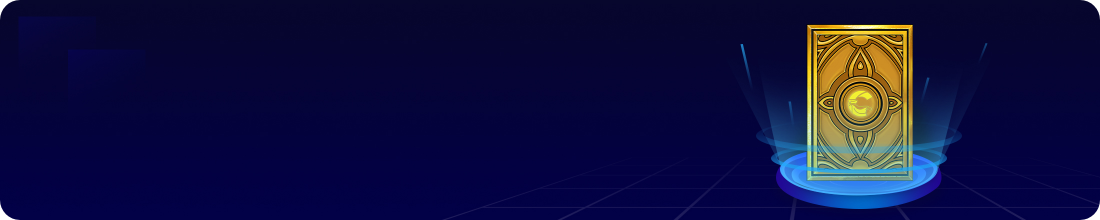
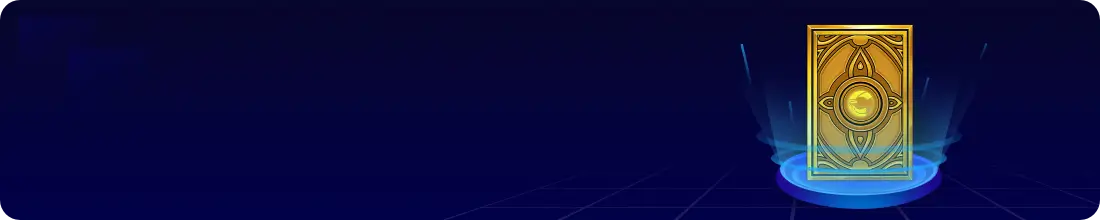
Bug fix (#13)
* tiny images

* import credential before next

* tutorial bg

* Submit and Next exist

* dashboard header links

react-hooks: useQueryParam

Changed region(s): [[0.7109, 0.0818, 0.8655, 0.8455], [0.7727, 0.9273, 0.8036, 0.9545]]

diff --git a/packages/app/src/DashboardFrame/Header.tsx b/packages/app/src/DashboardFrame/Header.tsx
@@ -1,17 +1,20 @@
-import { Box, Stack, styled } from '@mui/material';
-import React from 'react';
-import { useNavigate } from 'react-router-dom';
+import { Box, Link, Stack, styled } from '@mui/material';
+import React, { useEffect } from 'react';
+import { Link as LinkRoute, useNavigate } from 'react-router-dom';
 
 import { useWallet } from '@zcloak/react-wallet';
 
 import { ButtonEnable } from '@zkid/react-components';
+import { useQueryParam } from '@zkid/react-hooks';
 
 import AccountInfo from '../AccountInfo';
 import MoreLinks from '../MoreLinks';
 import NetworkCell from '../NetworkCell';
 
 const Wrapper = styled(Box)`
-  position: relative;
+  z-index: 1;
+  position: fixed;
+  top: 0;
   display: flex;
   align-items: center;
   justify-content: space-between;
@@ -19,6 +22,7 @@ const Wrapper = styled(Box)`
   height: 80px;
   padding: 0 30px;
 
+  background-color: #f4f5fc;
   color: #fff;
 
   .ZkidHeader-right {
@@ -33,16 +37,64 @@ const Logo = styled('div')`
   cursor: pointer;
 `;
 
+const ActiveLink: React.FC<{ to: string; active: string }> = ({ active, children, to }) => {
+  const [param] = useQueryParam<string>('anchor');
+
+  return (
+    <Link
+      component={LinkRoute}
+      sx={(theme) => ({
+        textDecoration: active === param ? 'underline' : undefined,
+        color: active === param ? theme.palette.grey[600] : '#000'
+      })}
+      to={to}
+    >
+      {children}
+    </Link>
+  );
+};
+
 const Header: React.FC = () => {
   const { account } = useWallet();
   const navigate = useNavigate();
 
+  const [param] = useQueryParam<string>('anchor');
+
+  useEffect(() => {
+    if (param) {
+      document.getElementById(param)?.scrollIntoView();
+    }
+  }, [param]);
+
   return (
     <Wrapper>
-      <Stack>
+      <Stack alignItems="center" direction="row" spacing={10}>
         <Logo onClick={() => navigate('/')}>
           <img src={require('@zkid/app-config/assets/logo-black.svg')} />
         </Logo>
+        <Stack
+          alignItems="center"
+          direction="row"
+          spacing={4}
+          sx={{
+            '.MuiLink-root': {
+              textUnderlineOffset: 6
+            }
+          }}
+        >
+          <ActiveLink active="dashboard" to="/dashboard?anchor=dashboard">
+            Dashboard
+          </ActiveLink>
+          <ActiveLink active="dashboard-poap" to="/dashboard?anchor=dashboard-poap">
+            POAP
+          </ActiveLink>
+          <ActiveLink active="dashboard-proof" to="/dashboard?anchor=dashboard-proof">
+            Proof
+          </ActiveLink>
+          <ActiveLink active="dashboard-activities" to="/dashboard?anchor=dashboard-activities">
+            Activities
+          </ActiveLink>
+        </Stack>
       </Stack>
       <Stack
         className="ZkidHeader-right"

diff --git a/packages/page-tutorial/src/Step3.tsx b/packages/page-tutorial/src/Step3.tsx
@@ -1,6 +1,6 @@
 import styled from '@emotion/styled';
 import { Button, Container } from '@mui/material';
-import React, { useCallback, useContext } from 'react';
+import React, { useCallback, useContext, useEffect, useState } from 'react';
 
 import { ZkidExtensionContext } from '@zkid/react-components/ZkidExtension';
 
@@ -32,10 +32,25 @@ const Wrapper = styled(Container)`
 
 const Step3: React.FC = () => {
   const { nextStep } = useContext(JudgeStepContext);
-  const { isImport, zkidExtension } = useContext(ZkidExtensionContext);
+  const { zkidExtension } = useContext(ZkidExtensionContext);
+  const [isImport, setIsImport] = useState(false);
+  const [isClick, setIsClick] = useState(false);
 
   const importCredential = useCallback(() => {
     zkidExtension.openzkIDPopup('OPEN_IMPORT_CREDENTIAL', undefined);
+    setIsClick(true);
+  }, [zkidExtension]);
+
+  useEffect(() => {
+    const handleImportEvent = () => {
+      setIsImport(true);
+    };
+
+    zkidExtension.on('SEND_IMPORT_CREDENTIAL_SUCCESS', handleImportEvent);
+
+    return () => {
+      zkidExtension.off('SEND_IMPORT_CREDENTIAL_SUCCESS', handleImportEvent);
+    };
   }, [zkidExtension]);
 
   return (
@@ -47,7 +62,7 @@ const Step3: React.FC = () => {
       </p>
       <img src="/images/pic_import.webp" />
 
-      {isImport ? (
+      {isClick && isImport ? (
         <Button onClick={nextStep} variant="rounded">
           Next
         </Button>

diff --git a/packages/page-tutorial/src/Step4.tsx b/packages/page-tutorial/src/Step4.tsx
@@ -72,25 +72,26 @@ const Step4: React.FC = () => {
       ) : (
         <>
           {finished && flag ? (
-            <ProofTrue />
+            <>
+              <ProofTrue />
+              <Button onClick={nextStep} variant="rounded">
+                Next
+              </Button>
+            </>
           ) : exists ? (
-            <Verifing setFinished={setFinished} />
+            <>
+              <Verifing setFinished={setFinished} />
+              <Button
+                onClick={() => {
+                  setFlag(true);
+                }}
+                variant="rounded"
+              >
+                Next
+              </Button>
+            </>
           ) : (
             <ZkGenerator />
-          )}
-          {finished && (
-            <Button
-              onClick={() => {
-                if (!flag) {
-                  setFlag(true);
-                } else {
-                  nextStep();
-                }
-              }}
-              variant="rounded"
-            >
-              Next
-            </Button>
           )}
         </>
       )}

diff --git a/packages/app/src/TutorialFrame/index.tsx b/packages/app/src/TutorialFrame/index.tsx
@@ -1,22 +1,29 @@
 import styled from '@emotion/styled';
 import { Box } from '@mui/material';
 import React from 'react';
-import { Outlet } from 'react-router-dom';
+import { Outlet, useMatch, useResolvedPath } from 'react-router-dom';
 
 import Header from './Header';
 
-const Wrapper = styled(Box)`
-  width: 100vw;
-  min-height: 100vh;
-  padding-bottom: 44px;
-  background: url('/images/tutorial-bg.webp') no-repeat;
-  background-size: cover;
-  background-position: center;
-`;
+const Wrapper = styled(Box)<{ inTutorial: boolean }>(
+  ({ inTutorial }) => `
+width: 100vw;
+min-height: 100vh;
+padding-bottom: 44px;
+background: url('${
+    inTutorial ? '/images/tutorial-bg2.webp' : '/images/tutorial-bg.webp'
+  }') no-repeat;
+background-size: cover;
+background-position: center;
+`
+);
 
 const TurorialFrame: React.FC = () => {
+  const tutorialResolved = useResolvedPath('/tutorial');
+  const match = useMatch({ path: tutorialResolved.pathname, end: true });
+
   return (
-    <Wrapper>
+    <Wrapper inTutorial={!!match}>
       <Header />
       <Outlet />
     </Wrapper>

diff --git a/packages/react-hooks/src/useQueryParams.ts b/packages/react-hooks/src/useQueryParams.ts
@@ -1,0 +1,27 @@
+import { useCallback, useMemo } from 'react';
+import { NavigateOptions, useSearchParams } from 'react-router-dom';
+import * as searchQuery from 'search-query-parser';
+
+export function useQueryParam<T>(
+  key: string
+): [T | null, (newQuery: T, options?: NavigateOptions) => void] {
+  const [searchParams, setSearchParams] = useSearchParams();
+  const paramValue = searchParams.get(key);
+
+  const value = useMemo(
+    () => (paramValue ? (searchQuery.parse(paramValue) as unknown as T) : null),
+    [paramValue]
+  );
+
+  const setValue = useCallback(
+    (newValue: T, options?: NavigateOptions) => {
+      const newSearchParams = new URLSearchParams(searchParams);
+
+      newSearchParams.set(key, searchQuery.stringify(newValue));
+      setSearchParams(newSearchParams, options);
+    },
+    [key, searchParams, setSearchParams]
+  );
+
+  return [value, setValue];
+}

diff --git a/packages/page-tutorial/src/components/AddProof.tsx b/packages/page-tutorial/src/components/AddProof.tsx
@@ -48,7 +48,10 @@ const AddProof: React.FC<Props> = ({ children, proof, setError }) => {
           [proof.expectResult]
         )
         .then((tx) => tx.wait(1))
-        .catch(notifyError);
+        .catch((error) => {
+          setLoading(false);
+          notifyError(error);
+        });
     }
   }, [kiltProofs, mnemonic, notifyError, proof, setError]);
 

diff --git a/packages/page-dashboard/src/index.tsx b/packages/page-dashboard/src/index.tsx
@@ -16,7 +16,7 @@ const Dashboard: React.FC = () => {
 
   return (
     <>
-      <Box sx={{ position: 'relative' }}>
+      <Box id="dashboard" sx={{ position: 'relative' }}>
         <Box component="img" src="/images/pic_banner.webp" sx={{ width: '100%' }} />
         <Box sx={{ position: 'absolute', left: '100px', top: '50px' }}>
           <Typography

diff --git a/packages/page-dashboard/src/Proof.tsx b/packages/page-dashboard/src/Proof.tsx
@@ -134,7 +134,7 @@ const Proof: React.FC = () => {
   }, [account]);
 
   return (
-    <>
+    <Box id="dashboard-proof">
       <h2>Proof</h2>
       <TableContainer
         component={Paper}
@@ -160,7 +160,7 @@ const Proof: React.FC = () => {
           </TableBody>
         </Table>
       </TableContainer>
-    </>
+    </Box>
   );
 };
 

diff --git a/packages/page-dashboard/src/Poaps.tsx b/packages/page-dashboard/src/Poaps.tsx
@@ -47,7 +47,7 @@ const Poaps: React.FC = () => {
   }, [nftId]);
 
   return (
-    <Box sx={{ mb: 10 }}>
+    <Box id="dashboard-poap" sx={{ mb: 10 }}>
       <h2>POAP</h2>
       <Slider dots={true} infinite={true} slidesToScroll={1} slidesToShow={4} speed={500}>
         {nftIds.map((_nftId) => (

diff --git a/packages/react-hooks/src/index.ts b/packages/react-hooks/src/index.ts
@@ -8,6 +8,7 @@ export * from './useFullDid';
 export * from './useIsInitialState';
 export * from './useLightDid';
 export * from './useLocalStorage';
+export * from './useQueryParams';
 export * from './useAccountPoap';
 export * from './useRequestForAttestation';
 export * from './useToggle';

diff --git a/packages/page-dashboard/src/Activities.tsx b/packages/page-dashboard/src/Activities.tsx
@@ -39,7 +39,7 @@ const Activities: React.FC = () => {
   }, [activities, activityType]);
 
   return (
-    <Box sx={{ marginY: '44px' }}>
+    <Box id="dashboard-activities" sx={{ marginY: '44px' }}>
       <h2>Activities</h2>
       <TableContainer
         component={Paper}

diff --git a/packages/app/src/DashboardFrame/index.tsx b/packages/app/src/DashboardFrame/index.tsx
@@ -8,6 +8,7 @@ import Header from './Header';
 const Wrapper = styled(Box)`
   width: 100vw;
   min-height: 100vh;
+  padding-top: 80px;
   background: linear-gradient(180deg, #f4f5fc 0%, #fbfcfd 76%, #ffffff 100%);
 `;
 
